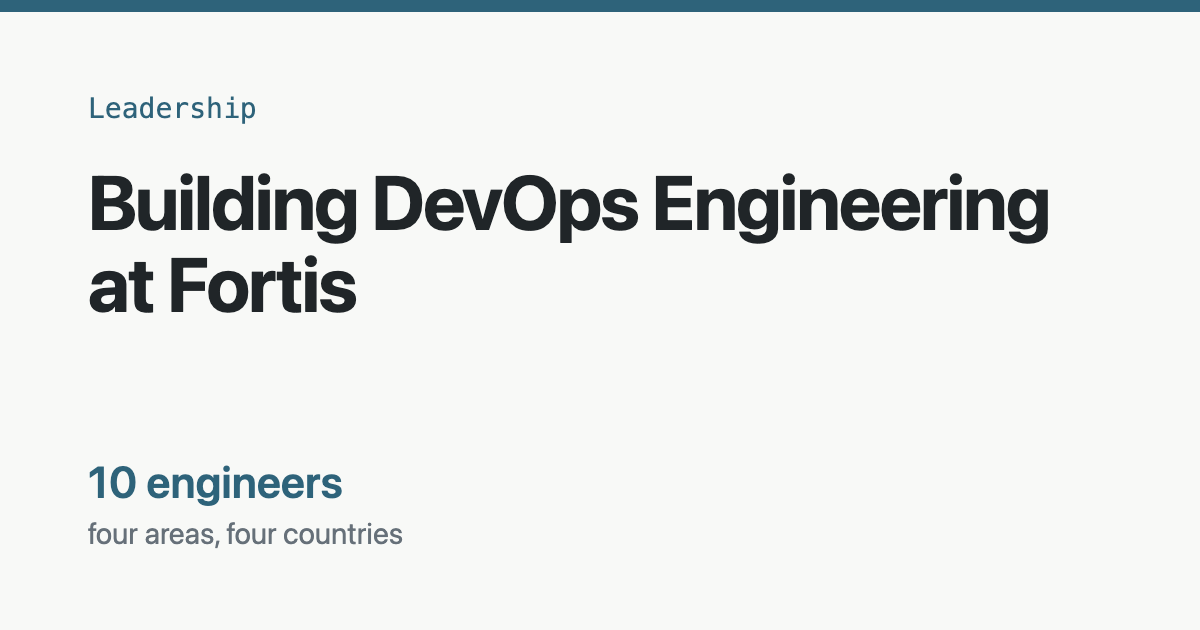
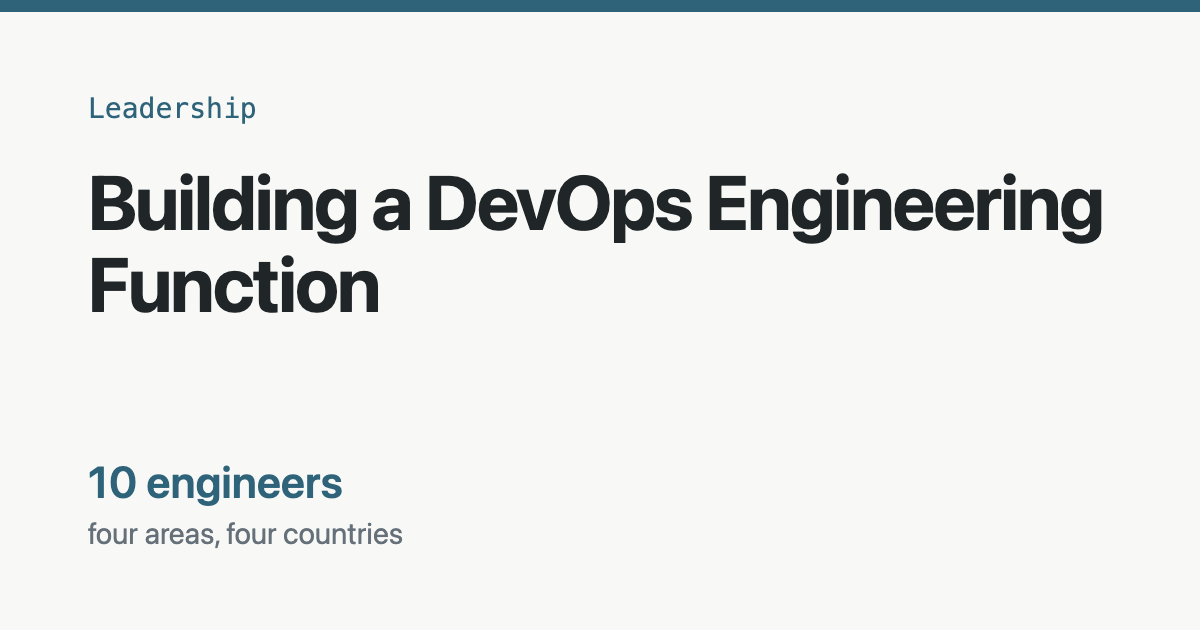
content: remove employer names and sensitive detail from case studies
Case studies, articles and drafts describe the employer generically. Employer
names, titles and dates stay on the About page, the homepage intro and the
site description.

Generalises security and configuration detail: the SSO vendor, the agent's
endpoint path and token handling, IAM and Pod Identity resource types, chart
auth features, ECS migration TLS settings and per-team ingress layout. Replaces
the team's country list with four countries across eight hours. Drops the
caption saying the rotation table came from an internal process document, and
the line implying the account security boundary was unresolved.

Renames the Prodigy draft and regenerates the leadership social card for the
new title.

Changed region(s): [[0.3083, 0.2714, 0.925, 0.3921], [0.0617, 0.3921, 0.3392, 0.5127]]

diff --git a/content/work/kubernetes-platform-architecture.md b/content/work/kubernetes-platform-architecture.md
@@ -8,26 +8,25 @@ role: "Designed and built the platform, then led the function that ran it"
 scale: "Multiple game studios, teams across four countries"
 outcome: "Zero-downtime cutovers from ECS to EKS; a documented decision process that outlived individual projects"
 stack: ["EKS", "Istio Ambient", "ArgoCD", "Helm", "Karpenter", "KEDA", "Kyverno", "Crossplane", "Terraform"]
-description: "Designing a production Kubernetes platform from nothing at Fortis Games: EKS, GitOps, service mesh, autoscaling, policy, and the operating model that made it usable."
+description: "Designing a production Kubernetes platform from nothing at a game company: EKS, GitOps, service mesh, autoscaling, policy, and the operating model that made it usable."
 ---
 
 ## Context
 
-Fortis Games was building game studios and had ECS services, but no coherent shared
-platform. Every team that
-needed a service running needed networking, deployment, secrets, monitoring and DNS, and
-without somewhere shared to get those, each team would have solved them separately and
-differently. I joined as principal software engineer and infrastructure
-technical lead, and the platform was the first thing to design.
+The company was building game studios and had ECS services, but no coherent shared
+platform. Every team that needed a service running needed networking, deployment, secrets,
+monitoring and DNS, and without somewhere shared to get those, each team would have solved
+them separately and differently. I joined as principal software engineer and
+infrastructure technical lead, and the platform was the first thing to design.
 
 The requirement was that a studio team should be able to ship a service without having to
 learn how the infrastructure underneath it is wired.
 
 ## Constraints
 
-The engineering team was spread across Brazil, Portugal, England and Canada, an
-eight-hour spread. Nothing could require everyone awake at the same time, which rules out
-a platform that depends on tribal knowledge or on asking me.
+The engineering team was spread across four countries, an eight-hour spread. Nothing could
+require everyone awake at the same time, which rules out a platform that depends on tribal
+knowledge or on asking me.
 
 Workloads were already running on ECS. The platform had to be somewhere existing services
 could move to without a maintenance window, because game traffic doesn't have a
@@ -63,7 +62,7 @@ are pending, and Istio in ambient mode connects the workloads with mTLS and L4 p
 per node and L7 at waypoint proxies. The platform services run in the cluster too:
 External Secrets, ExternalDNS and cert-manager supply secrets, DNS records and
 certificates to the workloads, and Datadog's Operator-managed agents observe them.
-Crossplane runs in production for incubator-game dependencies: DynamoDB tables, IAM roles and policies, and EKS Pod Identity associations. Its providers manage those AWS resources outside the cluster. Terraform stays responsible for the core infrastructure, including the cluster and accounts.
+Crossplane runs in production for incubator-game dependencies: the AWS data stores and access permissions those games need. Its providers manage those AWS resources outside the cluster. Terraform stays responsible for the core infrastructure, including the cluster and accounts.
 {{< /architecture >}}
 
 Delivery runs through GitOps. ArgoCD reconciles cluster state from Git, so the cluster's
@@ -89,8 +88,8 @@ it's submitted, so the cluster can't drift into a state a later sweep has to fin
 chase down.
 
 Incubator-game dependencies are declared from inside the cluster. Crossplane manages the
-DynamoDB tables, IAM roles and policies, and EKS Pod Identity associations needed to
-bootstrap those games. Core infrastructure remains in Terraform.
+AWS data stores and access permissions needed to bootstrap those games. Core
+infrastructure remains in Terraform.
 
 Secrets, DNS, certificates and observability all follow the same pattern: External
 Secrets, ExternalDNS, cert-manager, Datadog. The platform owns the integration and the
@@ -109,20 +108,17 @@ workload, the Service, the Istio VirtualService, KEDA scaling, External Secrets,
 policy, a pod disruption budget, RBAC and Datadog tagging. It only produces
 namespace-scoped, non-privileged workloads, which keeps everything it renders inside what
 Kyverno admits. The chart began as an open-source generic chart, and the platform-specific
-parts are mine: the Istio VirtualService interface, KEDA support, External Secrets v1,
-waypoint JWT auth, an oauth-proxy sidecar and the ECS migration wiring.
+parts are mine: mesh routing, KEDA support, the External Secrets integration,
+authentication at the mesh and in front of services, and the ECS migration wiring.
 
-The ECS cutovers went through the same chart. With migration enabled it adds a
-ServiceEntry for the ECS host and a DestinationRule that sets outbound TLS origination
-parameters (SIMPLE mode, trusted CA and SNI). The VirtualService can carry weighted routes
-to both ECS and EKS destinations. Moving
-traffic is a weight change in a values file, and so is rolling back. That is how the
-cutovers happened without a maintenance window.
+The ECS cutovers went through the same chart. With migration enabled it registers the ECS
+service with the mesh, and the service's routes can split traffic by weight between the
+ECS and EKS destinations. Moving traffic is a weight change in a values file, and so is
+rolling back. That is how the cutovers happened without a maintenance window.
 
 The onboarding chart, which I wrote, turns a new team into a values file: namespaces with
 the labels the platform expects, the Argo CD project that limits what the team can deploy
-and where, an Istio ambient waypoint per namespace with optional KEDA scaling, and a leaf
-ingress on the shared load balancer with one certificate per team. The Argo CD project
+and where, the team's mesh configuration and its ingress. The Argo CD project
 moved into the chart after onboarding kept needing hand-edits to central files.
 
 ## The operating model

diff --git a/content/leadership/building-devops-engineering.md b/content/leadership/building-devops-engineering.md
@@ -1,20 +1,20 @@
 ---
-title: "Building DevOps Engineering at Fortis"
+title: "Building a DevOps Engineering Function"
 weight: 1
 metric: "10 engineers"
 metric_note: "four areas, four countries"
-problem: "Fortis had no platform function. I joined as infrastructure technical lead to build the platform, and the engineering function that would own it had to be built alongside it."
+problem: "The company had no platform function. I joined as infrastructure technical lead to build the platform, and the engineering function that would own it had to be built alongside it."
 role: "Built the function, managed ten engineers, introduced the operating model and began the transition to four domain leads"
-scale: "Ten engineers across Brazil, Portugal, England and Canada, an eight-hour spread"
+scale: "Ten engineers across four countries, an eight-hour spread"
 outcome: "Ten engineers across four areas; written decision and ownership processes adopted while the domain-lead transition was under way"
 stack: ["RFC", "ADR", "Service ownership model", "Incident management", "Kanban"]
-description: "Building and then leading DevOps Engineering at Fortis Games: how the function grew to ten engineers, and the decision processes that let it run without routing through me."
+description: "Building and then leading DevOps Engineering at a game company: how the function grew to ten engineers, and the decision processes that let it run without routing through me."
 ---
 
 ## What was there when I joined
 
-I joined Fortis Games in January 2024 as Principal Software Engineer and Infrastructure
-Technical Lead. There was no internal platform.
+I joined as Principal Software Engineer and Infrastructure Technical Lead. There was no
+internal platform.
 
 Designing one was the first job, and the architecture is
 [its own case study](/work/kubernetes-platform-architecture/). This page is about the other
@@ -30,8 +30,8 @@ Areas formed around it as it grew: CI for games, AI infrastructure, SRE and
 platform/compute. Each one is
 work that someone has to hold by default rather than when asked.
 
-I was setting the function's technical direction well before I had a management title. In
-March 2026 that caught up and I became Sr. Manager, DevOps Engineering. The title changed
+I was setting the function's technical direction well before I had a management title.
+That caught up when I became Sr. Manager, DevOps Engineering. The title changed
 what I was accountable for. It did not change what the team did that week.
 
 ## Four areas, leadership in transition
@@ -41,16 +41,15 @@ platform/compute. I was moving toward one hands-on domain lead per area, with te
 authority delegated closer to the work. This reorganisation was still in progress; I would
 not describe all four leads as fully established.
 
-The team sits in Brazil, Portugal, England and Canada, an eight-hour spread. Almost
-nothing can
-depend on everyone being awake at once, and that rules out two ways of running a team.
+The team sits in four countries, an eight-hour spread. Almost nothing can depend on
+everyone being awake at once, and that rules out two ways of running a team.
 
 The first is the decision made live. The window where all four countries are working is too
 narrow to hold a function's technical decisions, and the people it excludes are the ones who
 have to live with them.
 
 The second is me as the approver. If a lead needs my sign-off to proceed, an engineer in
-Portugal spends the afternoon blocked on a morning that hasn't started in Canada yet.
+Europe spends the afternoon blocked on a morning that hasn't started in Canada yet.
 Routing decisions through one person is a bottleneck on any team; on this one it is also an
 eight-hour delay.
 
@@ -90,16 +89,16 @@ through scattered interruptions before the rotation made it something we could p
 around. The design and the trade-offs are in
 [its own case study](/leadership/support-engineering-rotation/).
 
-## Managing engineers before Fortis
+## Managing engineers before this role
 
-Fortis is not where I first led a team. At ChatFood I managed nine distributed engineers
-from May to December 2020, as Team Leader, through a migration onto AWS and Kubernetes.
-That was people management.
+This is not where I first led a team. As Team Leader at an earlier company I managed nine
+distributed engineers through a migration onto AWS and Kubernetes. That was people
+management.
 
-At Wrapbook, from February to August 2022, I was technical lead for four engineers as Staff
-Platform Systems Engineer. That was technical leadership and not people management, and the
-distinction is worth keeping: I was accountable for the technical direction of that work,
-not for the engineers themselves.
+Later, as Staff Platform Systems Engineer, I was technical lead for four engineers. That
+was technical leadership and not people management, and the distinction is worth keeping:
+I was accountable for the technical direction of that work, not for the engineers
+themselves.
 
 ## What I would do differently
 

diff --git a/content/work/infrastructure-agent.md b/content/work/infrastructure-agent.md
@@ -7,20 +7,20 @@ problem: "A company that incubates game ideas needs an environment for each one.
 role: "Designed and built the agent and separate approval paths for incubator sandboxes and service onboarding"
 scale: "50 environments provisioned in three months"
 outcome: "About 30 seconds for the standard incubator sandbox flow; service onboarding took a PR-review path"
-stack: ["LangGraph", "MCP", "FastAPI", "EKS", "GitHub Apps", "Okta"]
-description: "A LangGraph agent with two paths: automated standard incubator sandboxes and PR-reviewed repository onboarding for services protected by Okta."
+stack: ["LangGraph", "MCP", "FastAPI", "EKS", "GitHub"]
+description: "A LangGraph agent with two paths: automated standard incubator sandboxes and PR-reviewed repository onboarding for services behind SSO."
 ---
 
 ## Context
 
-Fortis incubated games. Ideas get built, tested, and either continued or dropped, and every
-one of them needs somewhere to run. The cost of standing up an environment is therefore a
-cap on how many ideas the company can afford to try.
+The company incubated games. Ideas get built, tested, and either continued or dropped, and
+every one of them needs somewhere to run. The cost of standing up an environment is
+therefore a cap on how many ideas the company can afford to try.
 
-A new game environment at Fortis meant a repository, the infrastructure to run it, a
-baseline service on EKS, observability wired up, and SSO configured. Each piece was
-understood. The cost was the coordination between them: about two days, spread across more
-than one person, with waiting in between.
+A new game environment meant a repository, the infrastructure to run it, a baseline
+service on EKS, observability wired up, and SSO configured. Each piece was understood. The
+cost was the coordination between them: about two days, spread across more than one
+person, with waiting in between.
 
 At that cost, teams stop standing things up speculatively. Experiments that should be
 cheap get batched, deferred or skipped, and nobody files a ticket saying "I didn't try
@@ -47,7 +47,7 @@ and the agent could review and merge the change automatically into a sandbox. Th
 30-second provisioning figure refers to that standardized incubator path; 50 environments
 were provisioned in three months. For onboarding a repository containing a team-built
 service, the agent instead opened a pull request for review before deploying the service
-behind an Okta integration.
+behind SSO.
 
 Underneath it's a LangGraph graph. The agent runs as a FastAPI service with an MCP
 server mounted on it, so an MCP client calls a tool and the
@@ -61,7 +61,7 @@ reads that description. There is no glue code in between to drift from the thing
 {{< architecture svg="infrastructure-agent" label="One provisioning request" caption="Repository-onboarding path only: the agent opens a reviewable PR before the team service is deployed. The standardized incubator sandbox path merges automatically and is not shown. Internal service names and repository details are omitted." >}}
 [Request] MCP client*, any client
 -> tool call
-[Surface] MCP server*, /mcp, JWT verified, scope checked, audited
+[Surface] MCP server*, authenticated, authorized, audited
 -> runs in process
 [Orchestration] LangGraph*, provision graph
 !! Secret redaction :: Guards what the agent reads into context and what its releases ship. Not a stage a request passes through.
@@ -70,16 +70,16 @@ reads that description. There is no glue code in between to drift from the thing
 -> requests review
 [Service onboarding boundary] Human approval*
 -> applies
-[Behind the gate] Infrastructure, EKS service, observability, Okta SSO
+[Behind the gate] Infrastructure, EKS service, observability, SSO
 ---
 An MCP client calls a tool on the MCP server mounted on the agent's own API. The server
-verifies the caller's token, checks the required scope, and writes an audit record for
-every call including the ones it refuses. The tool then runs the LangGraph provision
+authenticates the caller, checks that the caller may use the tool, and records every
+call, including refused ones. The tool then runs the LangGraph provision
 graph in the same process, which is what the plain HTTP route onto that graph also does.
 The caller's identity is read from the verified token and never from the request body, so
 it is the same on both paths. Each tool carries a strict schema. A read-only preview plans
 without changes. The application path has a GitHub integration open a pull request, and a
-person reviews it before the team-built service is deployed behind Okta. Secret redaction
+person reviews it before the team-built service is deployed behind SSO. Secret redaction
 guards the agent's inputs and its releases and is not a stage a request passes through.
 {{< /architecture >}}
 

diff --git a/content/leadership/support-engineering-rotation.md b/content/leadership/support-engineering-rotation.md
@@ -9,7 +9,7 @@ role: "Designed it, wrote the process, implemented it and rolled it out"
 scale: "Grew to ten engineers across four countries, every Infrastructure-owned repository"
 outcome: "Interrupts have one owner per week; the other nine keep their project time, and everyone passes through every area in turn"
 stack: ["Argo CD", "Renovate", "ClickUp", "Slack", "Kanban"]
-description: "A weekly support engineer rotation at Fortis Games: one person absorbs requests, alerts and dependency upgrades, which protects everyone else's project time and spreads knowledge across every area of the platform."
+description: "A weekly support engineer rotation for a platform team: one person absorbs requests, alerts and dependency upgrades, which protects everyone else's project time and spreads knowledge across every area of the platform."
 ---
 
 ## Context
@@ -46,7 +46,7 @@ I designed the rotation, wrote the process, implemented it and rolled it out. Th
 started at eight engineers and grew to ten.
 
 How that team came to exist, and the rest of the operating model around it, is in
-[Building DevOps Engineering at Fortis](/leadership/building-devops-engineering/).
+[Building a DevOps Engineering Function](/leadership/building-devops-engineering/).
 
 ## The design
 
@@ -61,7 +61,7 @@ indistinguishable from an on-call week.
 
 The week has four claims on it, in a fixed order:
 
-{{< stack label="What the support week covers" caption="Taken from the team's support engineer process. The priority order is part of the design, not a guideline." >}}
+{{< stack label="What the support week covers" caption="The priority order is part of the design, not a guideline." >}}
 Requests :: Acknowledged, prioritised, followed up until closed or handed over :: first priority
 Monitoring and Argo CD :: Daytime checks and sync or health failures; active incidents follow the separate on-call process :: second priority
 Renovate :: Dependency PRs across Infrastructure-owned repositories, oldest first :: third priority
@@ -148,7 +148,7 @@ often. Shorter shifts would add handoffs, and every handoff is a chance to drop 
 The rotation gives interrupts an owner. It doesn't reduce how many arrive, and a good share
 of them are alerts needing the same first twenty minutes of investigation every time.
 
-My last piece of work at Fortis was a proof-of-concept evaluation of kagent, which runs
+My last piece of work there was a proof-of-concept evaluation of kagent, which runs
 agents as Kubernetes resources with sandboxed execution. The fit here is what interested
 me: an agent that picks up an alert, gathers the context a human would gather and attaches
 it to the ticket changes what the support engineer starts from. The propose-and-approve

diff --git a/drafts/edtech-platform-reliability-and-cost.md b/drafts/edtech-platform-reliability-and-cost.md
@@ -1,5 +1,5 @@
 ---
-title: "Platform Reliability and Cost at Prodigy Education"
+title: "Platform Reliability and Cost at an Education Technology Company"
 draft: true
 weight: 2
 metric: "35% lower"
@@ -9,7 +9,7 @@ role: "Owned platform architecture, reliability and cost across two periods on t
 scale: "~10M monthly users, peaks above 150,000 concurrent"
 outcome: "Cloud infrastructure cost down 35%, node provisioning moved to Karpenter with an upstream contribution, deployments moved off Flux v1 to Argo CD with no downtime"
 stack: ["EKS", "Karpenter", "Argo CD", "Flux", "AWS"]
-description: "Platform work at Prodigy Education: the Karpenter migration and what it did to cost, moving delivery from Flux v1 to Argo CD without downtime, and holding reliability at peak."
+description: "Platform work at an education technology company: the Karpenter migration and what it did to cost, moving delivery from Flux v1 to Argo CD without downtime, and holding reliability at peak."
 ---
 
 > **Not publishable yet.** The structure below is the argument and the prose is what I can
@@ -21,10 +21,10 @@ description: "Platform work at Prodigy Education: the Karpenter migration and wh
 
 ## Context
 
-Prodigy Education runs a learning platform serving around 10 million monthly users, with
-peaks above 150,000 concurrent. I worked on it across two periods, as Senior DevOps
-Engineer from December 2020 to December 2021 and as Principal Software Developer, SRE from
-August 2022 to January 2024. Platform architecture, reliability and cost were mine.
+The company runs a learning platform serving around 10 million monthly users, with peaks
+above 150,000 concurrent. I worked on it across two periods, first as Senior DevOps
+Engineer and later as Principal Software Developer, SRE. Platform architecture,
+reliability and cost were mine.
 
 > **Needed:** what the platform ran on, and what shape the problem took when each of the
 > two periods started. One specific pressure or failure per period is enough, and it is
@@ -73,9 +73,9 @@ Deployments moved from Flux v1 to Argo CD with no downtime.
 > **Needed:** why the move happened. Flux v1 reaching end of life, or a capability you
 > needed that it did not have.
 
-> **Needed:** roughly how many services and clusters moved, and the mechanism that kept the
-> cutover from causing downtime. The Fortis case study makes the same kind of claim and
-> earns it by naming the mechanism, so this one should too.
+> **Needed:** roughly how many services and clusters moved, and the mechanism that kept
+> the cutover from causing downtime. The Kubernetes platform case study makes the same
+> kind of claim and earns it by naming the mechanism, so this one should too.
 
 ## Reliability at peak
 

diff --git a/content/work/aws-multi-account-cost-attribution.md b/content/work/aws-multi-account-cost-attribution.md
@@ -13,9 +13,9 @@ description: "When 38 AWS accounts became six, physical billing isolation disapp
 
 ## Context
 
-Fortis ran 38 AWS accounts. Consolidating them into six shared accounts was the right move
-operationally, and it had a consequence that's easy to miss until the first invoice: an
-account per game is also a cost report per game. The account boundary had been doing
+The company ran 38 AWS accounts. Consolidating them into six shared accounts was the right
+move operationally, and it had a consequence that's easy to miss until the first invoice:
+an account per game is also a cost report per game. The account boundary had been doing
 accounting work nobody designed it to do.
 
 Once several games share an account, "what does this game cost" stops having an answer the
@@ -71,7 +71,7 @@ usage, and finance needs to know which figures came from which.
 
 Six accounts instead of 38 also means weaker blast-radius isolation. The tagging work
 replaced the cost reporting the account boundary had been providing. It doesn't replace the
-security boundary, and that was a separate conversation.
+security boundary.
 
 ## Results and lessons
 

diff --git a/content/writing/cluster-and-team-same-approach.md b/content/writing/cluster-and-team-same-approach.md
@@ -66,13 +66,13 @@ Charity Majors has a name for the career version of this, the
 between building and managing across a career, and the best frontline managers stay close
 to hands-on work while the strongest individual contributors have done time managing. I've
 crossed that line three times, most recently from principal engineer and infrastructure
-technical lead at Fortis Games in 2024 to Sr. Manager of DevOps Engineering there in 2026.
+technical lead in 2024 to Sr. Manager of DevOps Engineering at the same company in 2026.
 
 ## When I was the bottleneck
 
 Early in my career I went deep enough on problems that I became part of the critical path.
 Decisions waited on me, and on a team spread across four countries that's not a small
-cost. An engineer in Portugal spends the afternoon blocked on a morning that hasn't started
+cost. An engineer in Europe spends the afternoon blocked on a morning that hasn't started
 yet in Canada.
 
 What I wanted was to stop being the person every decision depended on. The team is

diff --git a/content/work/zero-downtime-ecs-to-eks.md b/content/work/zero-downtime-ecs-to-eks.md
@@ -31,11 +31,10 @@ possible.
 ## Architecture and decisions
 
 Ambient mode against the sidecar model, and why ambient was the migration-friendly
-choice. The application-chart migration template registered the ECS host in a ServiceEntry
-and configured SIMPLE outbound TLS, CA verification and SNI on its DestinationRule.
-Still needed: the actual VirtualService rules, where TLS terminated, waypoint placement,
-and what L7 behavior each proxy provided. Because the ServiceEntry template defaults to
-HTTPS on port 443, validate the traffic path for double TLS before claiming the details.
+choice. The application chart's migration mode registered the ECS service with the mesh
+and split traffic by weight. Still needed: how traffic was routed, where TLS terminated,
+waypoint placement and what L7 behaviour each proxy provided, confirmed against the
+migration's own documents. Keep chart configuration out of the published version.
 
 ## Trade-offs and alternatives
 

diff --git a/content/_index.md b/content/_index.md
@@ -12,7 +12,7 @@ impact:
 areas:
   - title: "Engineering Leadership"
     href: "/leadership/"
-    body: "I built DevOps Engineering at Fortis around ten engineers and four areas, introduced written decision processes and a support rotation, and began moving toward domain leads who could make technical decisions without waiting for me."
+    body: "I built a DevOps Engineering function around ten engineers and four areas, introduced written decision processes and a support rotation, and began moving toward domain leads who could make technical decisions without waiting for me."
   - title: "Platform Architecture"
     href: "/work/"
     body: "I design Kubernetes platforms end to end on AWS, then run them: cutting production over from ECS to EKS without downtime, and automating the provisioning that used to take days."

diff --git a/content/leadership/_index.md b/content/leadership/_index.md
@@ -8,7 +8,7 @@ weight: 1
 description: "Case studies on engineering management, organisational design and delivery leadership."
 ---
 
-Building and running the DevOps Engineering function at Fortis Games, and the operating
+Building and running a DevOps Engineering function at a game company, and the operating
 models that came out of it. Each case study states what I decided and what I delegated.
 
 We were moving toward hands-on domain leads who could make decisions with context and
